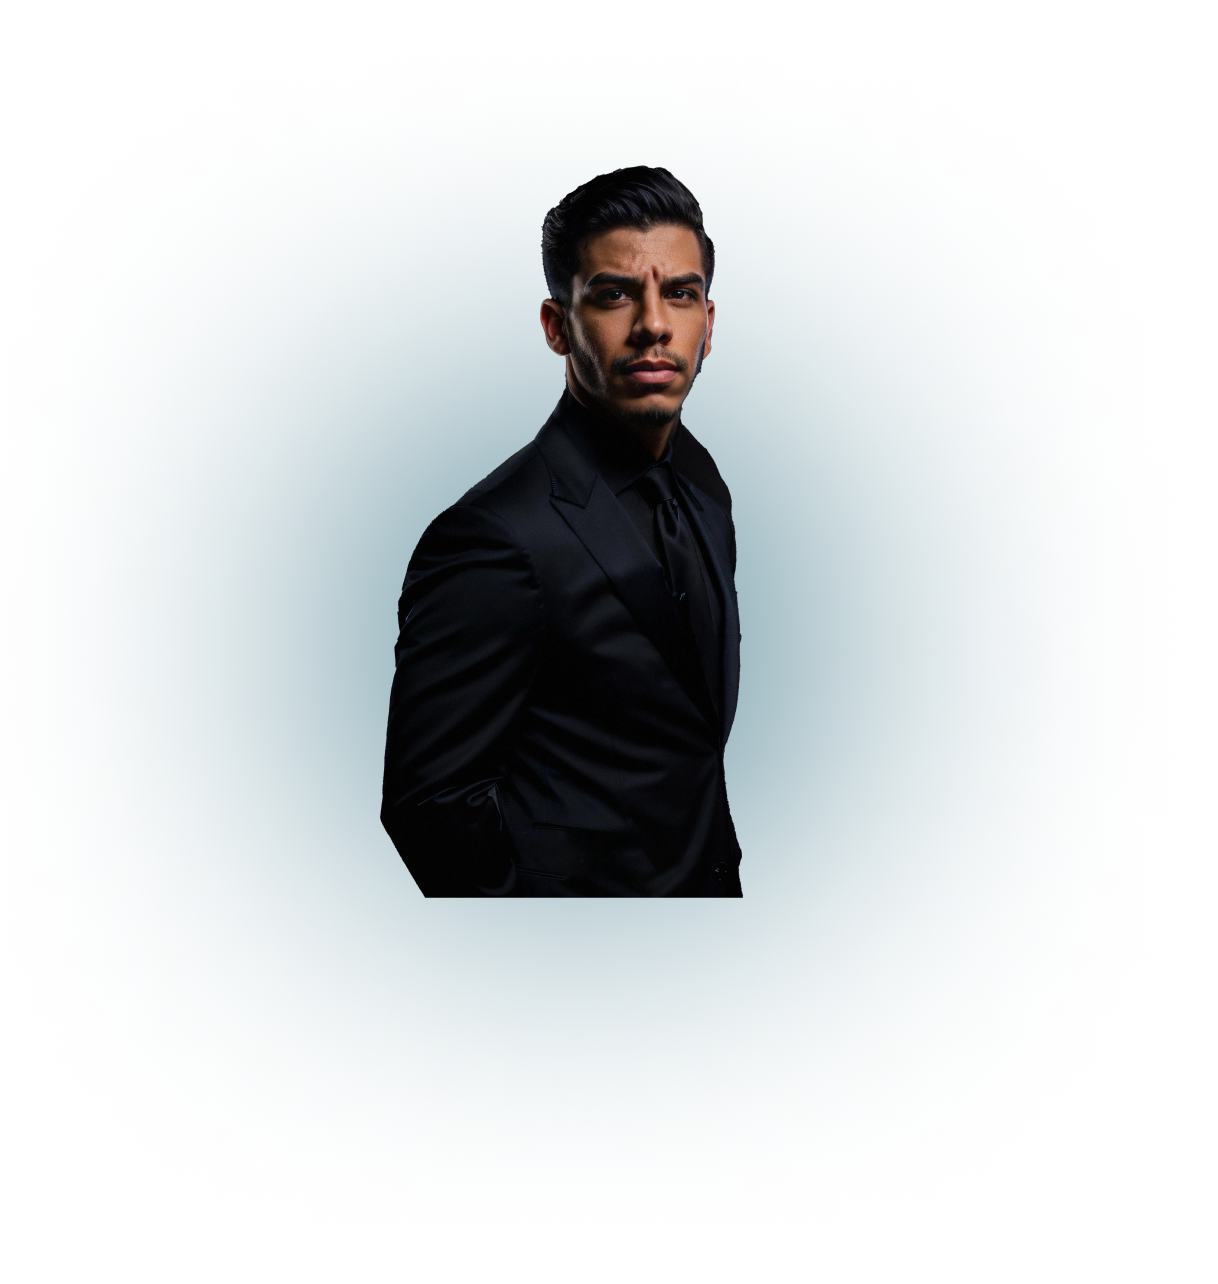
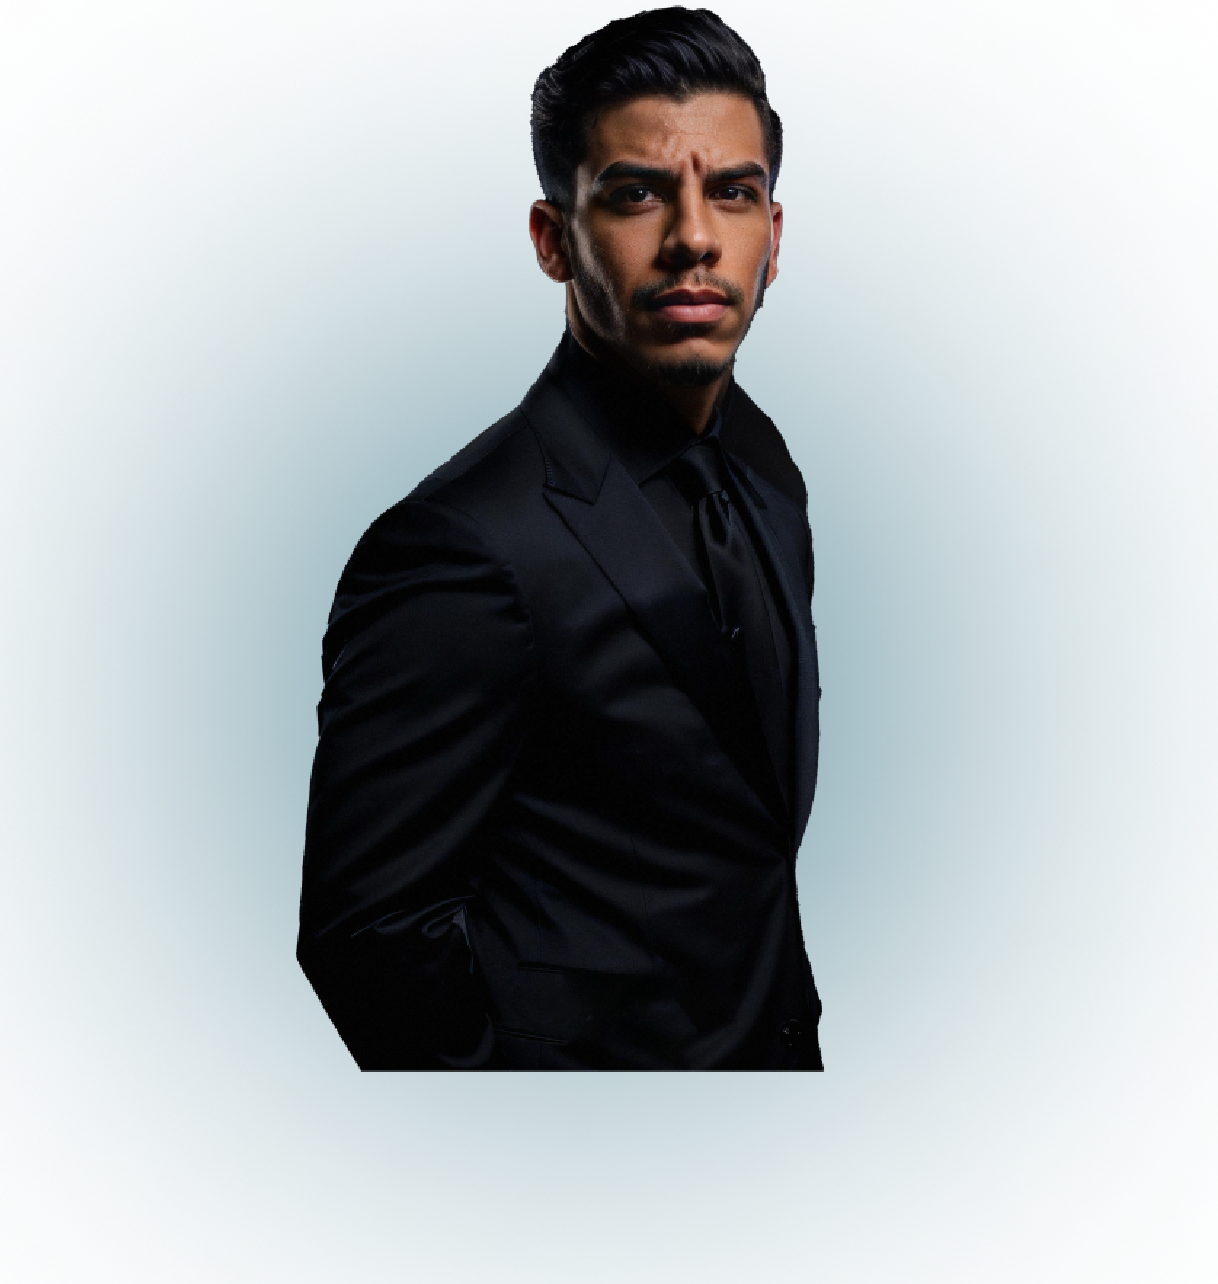
feat: formata elementos da hero na tela 🚧

diff --git a/src/components/organisms/hero.tsx b/src/components/organisms/hero.tsx
@@ -1,20 +1,26 @@
+import { FaRegPaperPlane } from 'react-icons/fa'
+
 function Hero() {
   return (
-    <div className="mt-40 flex justify-between">
-      <div className="max-w-[800px]">
-        <img src="/bruno-photo.png" alt="Bruno's Photo" className="h-full w-full" />
+    <div className="mt-60 flex justify-center">
+      <div className="-mt-40 max-w-[700px]">
+        <img src="/_bruno-photo.png" alt="Bruno's Photo" className="h-full w-full" />
       </div>
-      <div className="flex flex-col gap-4">
-        <div className="max-w-[220px] rounded-sm bg-gradient-primary p-1 text-center">
-          <h1 className="text-lg">Olá, me chamo Bruno</h1>
+      <div className="flex flex-col gap-8">
+        <div className="flex flex-col gap-3">
+          <div className="max-w-[170px] rounded-sm bg-gradient-primary p-0.5 text-center">
+            <h1 className="text-[14px]">Olá, me chamo Bruno</h1>
+          </div>
+          <div className="flex w-[300px]">
+            <h2 className="text-2xl">
+              Elevo o visual da sua marca com criatividade e estilo. Venha tornar seus projetos visualmente{' '}
+              <span className="text-blue-500">memoráveis</span>.
+            </h2>
+          </div>
         </div>
-        <div className="flex w-[300px]">
-          <h2 className="text-2xl">
-            Elevo o visual da sua marca com criatividade e estilo. Venha tornar seus projetos visualmente{' '}
-            <span className="text-blue-500">memoráveis</span>.
-          </h2>
-        </div>
-        <button>Solicitar orçamento</button>
+        <button className="flex items-center justify-center gap-4 rounded-md bg-gradient-primary py-3">
+          <FaRegPaperPlane size={20} /> <p className="text-[16px] font-semibold">SOLICITAR ORÇAMENTO</p>
+        </button>
       </div>
     </div>
   )
